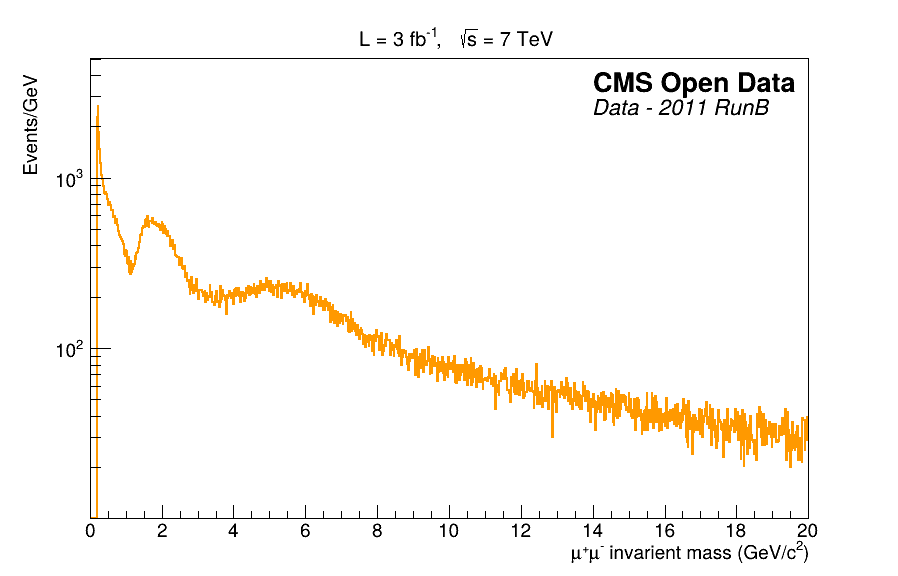
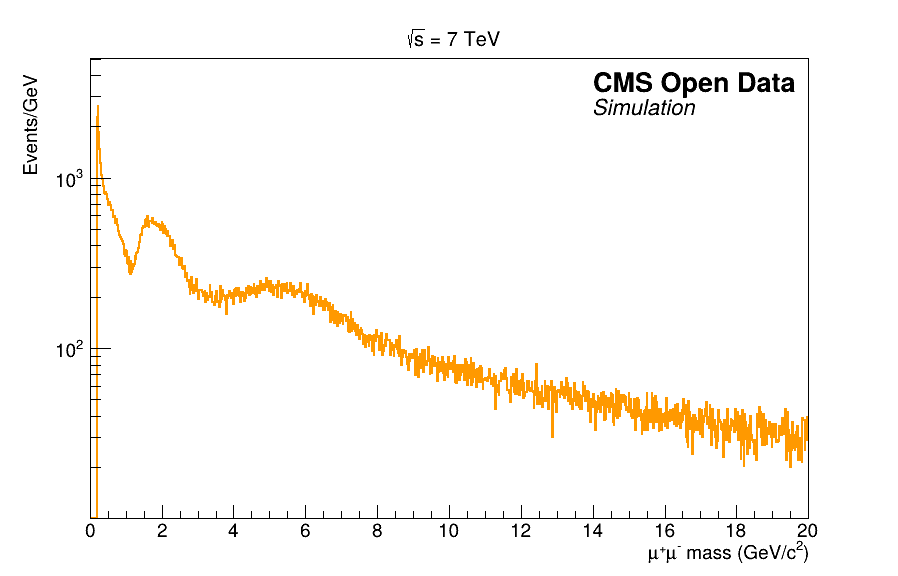
Updated the graphing script & plots

Changed region(s): [[0.6548, 0.1562, 0.8731, 0.2188], [0.4365, 0.0312, 0.6236, 0.0938], [0.6236, 0.9375, 0.7795, 0.9688]]

diff --git a/graphing.C b/graphing.C
@@ -2,7 +2,7 @@
    
    This is a graphing script to make histograms
    look presentable and ready for journal uses.
-   Created on: 31 Jul, 2024
+   Created on: 10 Jul, 2024
    Original Author: Raj Handique
 
    =========================================== */
@@ -54,7 +54,7 @@ void graphing(){
   TH1F *h2 = (TH1F*)file1->Get(plotname2);
   
   TH1F *h3 = (TH1F*)file2->Get(plotname1);
-  TH1F *h4 = (TH1F*)file2->Get(plotname2);
+  TH1F *h4 = (TH1F*)file2->Get(plotname2); 
   
   // Decorating the histogram
   decorate(h1, kOrange-3, 2.5);
@@ -78,8 +78,8 @@ void graphing(){
   t3.SetTextSize(0.04);
   t4.SetTextSize(0.038);
   t1.DrawLatexNDC(0.66, 0.84, "CMS Open Data");
-  t4.DrawLatexNDC(0.66, 0.80, "#it{#bf{Data - 2011 RunB}}");
-  t3.DrawLatexNDC(0.4, 0.92, "#bf{L = 3 fb^{-1}, #sqrt{s} = 7 TeV}");
+  t3.DrawLatexNDC(0.66, 0.80, "#it{#bf{Data - 2011 RunB}}");
+  t4.DrawLatexNDC(0.4, 0.92, "#bf{L = 3 fb^{-1}, #sqrt{s} = 7 TeV}");
   
 
   // Plot 2
@@ -117,8 +117,8 @@ void graphing(){
   t9.SetTextSize(0.04);
   t10.SetTextSize(0.038);
   t8.DrawLatexNDC(0.66, 0.84, "CMS Open Data");
-  t9.DrawLatexNDC(0.66, 0.80, "#it{#bf{Data - 2011 RunB}}");
-  t10.DrawLatexNDC(0.4, 0.92, "#bf{L = 3 fb^{-1}, #sqrt{s} = 7 TeV}");
+  t9.DrawLatexNDC(0.66, 0.80, "#it{#bf{Simulation}}");
+  t10.DrawLatexNDC(0.45, 0.92, "#bf{#sqrt{s} = 7 TeV}");
 
 
   // Plot 4
@@ -137,8 +137,8 @@ void graphing(){
   t12.SetTextSize(0.04);
   t13.SetTextSize(0.038);
   t11.DrawLatexNDC(0.66, 0.84, "CMS Open Data");
-  t12.DrawLatexNDC(0.66, 0.80, "#it{#bf{Data - 2011 RunB}}");
-  t13.DrawLatexNDC(0.4, 0.92, "#bf{L = 3 fb^{-1}, #sqrt{s} = 7 TeV}");
+  t12.DrawLatexNDC(0.66, 0.80, "#it{#bf{Simulation}}");
+  t13.DrawLatexNDC(0.45, 0.92, "#bf{#sqrt{s} = 7 TeV}");
 
 
   
